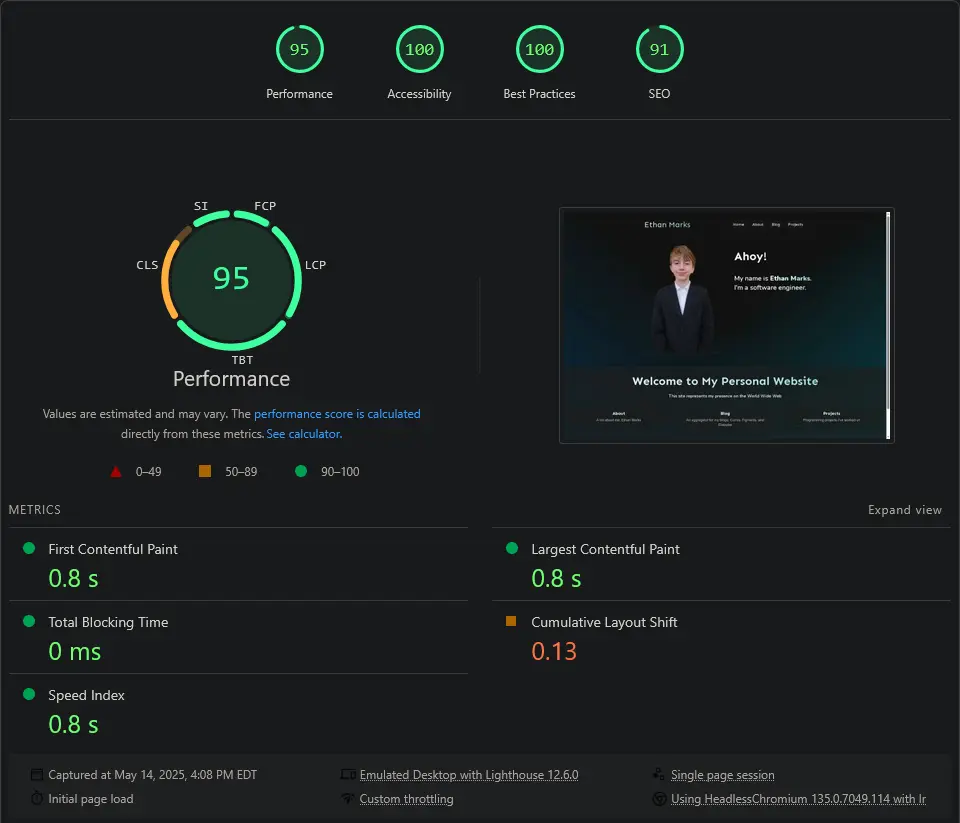
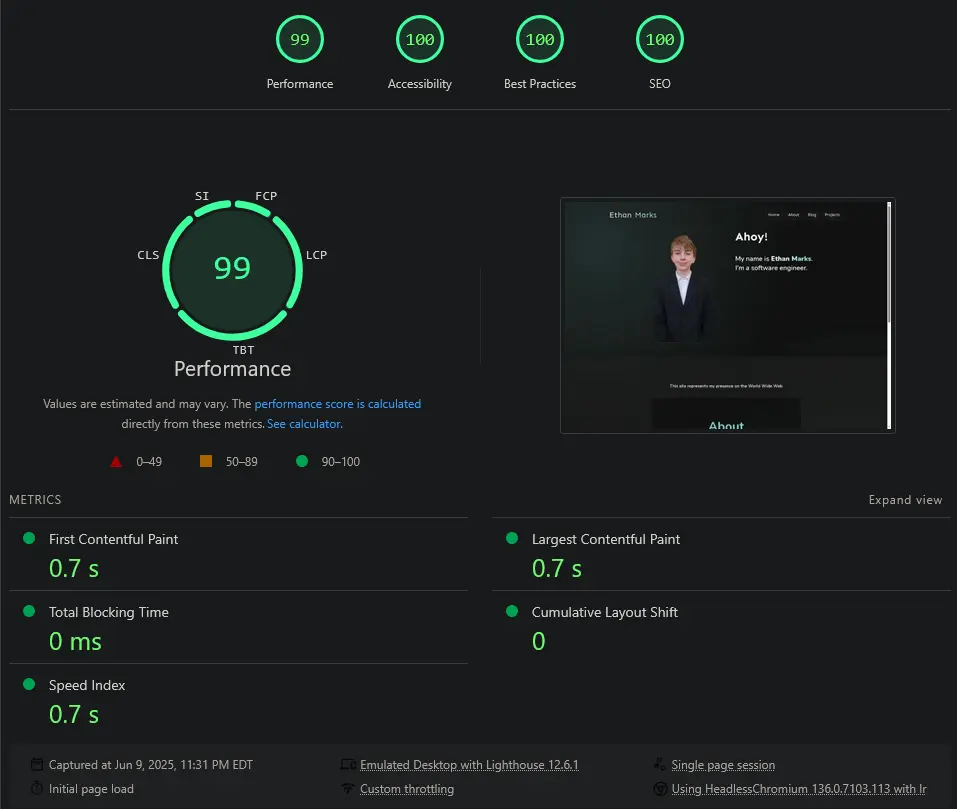
update personal website project

diff --git a/projects/personalwebsite/index.html b/projects/personalwebsite/index.html
@@ -63,27 +63,19 @@
 <li><strong>Body Font</strong>: I perused the <em>entire</em> <a href="https://fonts.google.com/">Google Fonts</a> catalogue to find a sleek <a href="https://fonts.google.com/knowledge/glossary/grotesque_neo_grotesque">neo-grotesque</a> font that supported <a href="https://en.wikipedia.org/wiki/Latin_script">Latin</a> and <a href="https://en.wikipedia.org/wiki/Cyrillic_script">Cyrillic</a>. I finally settled on <a href="https://fonts.google.com/specimen/Nunito">Nunito</a>. (Заслужаваше си, защото вече мога да имам български текст!)</li>
 <li><strong>Header Font</strong>: I chose <a href="https://fonts.google.com/specimen/Sen">Sen</a> for the headers because it looks stylish, clean, and I like the look of the lowercase t.</li>
 </ul>
-<h3>Animations</h3>
+<h3>Special Effects</h3>
 <ul>
-<li><strong>Page Load</strong>: Every time a page is loaded, the content smoothly fades in from transparency. This is accomplished giving, <code>&lt;body&gt;</code> the following animation: <code>animation: fadeIn 0.3s ease-in forwards</code>.</li>
-<li><strong>Home Page</strong>: I made heavy use of animations on my <a href="https://colourlessspearmint.github.io/">Home page</a>. The intro image, header, and subheader all slide in from different directions. Each word in the title text clicks in place with a staggered falling effect. The navigation cards gently fade and rise. I'm very happy with how it turned out.</li>
-</ul>
-<h3>Effects</h3>
-<ul>
-<li><strong>Blur</strong>: I love <a href="https://css.glass/">glassmorphic</a> blur effects, but due to performance concerns, I've only used it in the header and footer. If some mathematician figures out how to efficiently take a gaussian blur over a large sample space, I want to be the first to know so I can add a subtle blur to the <code>&lt;article&gt;</code> styles without tanking performance.</li>
-<li><strong>Shadows</strong>: Some Interactive elements (e.g. buttons) have subtle drop shadows.</li>
-<li><strong>Borders</strong>: Many elements (buttons, images, articles) have this border <code>border: 1px solid rgba(255, 255, 255, 0.1)</code>; it's 1 pixel thick, 10% opaque, and pure white.</li>
-<li><strong>Rounded Corners</strong>: Many elements have slightly rounded corners. The radius is defined with <code>border-radius: clamp(8px, 3vw, 12px)</code>.</li>
+<li><strong>Blur</strong>: I love <a href="https://css.glass/">glassmorphic</a> blur effects, but due to performance concerns, I've only used it in the header and footer. If some mathematician figures out how to cheaply perform a <a href="https://en.wikipedia.org/wiki/Gaussian_blur">gaussian blur</a> over a large sample space, I want to be the first to know so I can add a subtle blur to the <code>&lt;article&gt;</code> styles without tanking performance.</li>
+<li><strong>Tilt</strong>: If you hover over the cards on my home page, they'll respond to the mouse by tilting in 3D. I used <a href="https://micku7zu.github.io/vanilla-tilt.js/">vanilla-tilt.js</a> for this </li>
 </ul>
 <h2>Lighthouse</h2>
-<p>As of <a href="https://pagespeed.web.dev/analysis/https-colourlessspearmint-github-io/x6c865vinn?form_factor=desktop">May 14, 2025</a>, the site earns an average <a href="https://developer.chrome.com/docs/lighthouse">Lighthouse</a> score of 96.4.</p>
-<img alt="A Lighthouse analytic page showing 95 performance, 100 accessibility, 100 best practices, 91 SEO" src="../../images/lighthouse.webp" />
-<p>The missing points in performance are due to the animations on the home screen that cause <a href="https://web.dev/articles/cls">Cumulative Layout Shift</a>. I could fix it by removing the animations, but I'm hesitant to sacrifice their aesthetic value for a small nominal performance gain.</p>
-<p>The missing points in SEO are because I don't have <code>&lt;meta&gt;</code> description tags on every page. I'm actively working on fixing this.</p>
+<p>As of <a href="https://pagespeed.web.dev/analysis/https-colourlessspearmint-github-io/uxk33xj1o8?form_factor=desktop">June 9, 2025</a>, the site earns an average <a href="https://developer.chrome.com/docs/lighthouse">Lighthouse</a> score of 99.75.</p>
+<img alt="A Lighthouse analytic page showing 99 performance, 100 accessibility, 100 best practices, 100 SEO" src="../../images/lighthouse.webp" />
+<p>It's very close to a perfect score, but I lost one point in performance because of the 520 milliseconds (half a second) it takes to download the font.</p>
 <h2>Privacy</h2>
 <p>This site does not use cookies, trackers, analytics, or any external telemetry tools. This is partially because I care about your privacy, but mostly because I don't care about your personal information and harvesting it sounds complicated. Your data remains yours because I don't want it and can't figure out how to get it.</p>
 <h2>Accessibility</h2>
-<p>This site is designed to be accessible to as many users as possible. Before each <a href="https://git-scm.com/docs/git-push">git push</a>, I test every single page in Firefox's <a href="https://firefox-source-docs.mozilla.org/devtools-user/responsive_design_mode/">Responsive Design Mode</a> to ensure that the site remains functional on a variety of devices. I've done my best to follow best practices regarding meta tags, semantic markup, keyboard navigation, and alt text.</p>
+<p>This site is designed to be accessible to as many users as possible. I've done my best to follow best practices regarding meta tags, semantic markup, keyboard navigation, and alt text. Also, before each <a href="https://git-scm.com/docs/git-push">git push</a> I test every single page in Firefox's <a href="https://firefox-source-docs.mozilla.org/devtools-user/responsive_design_mode/">Responsive Design Mode</a> to ensure that the site remains functional on different devices and screens.</p>
 <h2>Conclusion</h2>
 <p>My personal website is one of my favorite projects I've ever made. It's aesthetically pleasing, serves a purpose, was fun to make, and forced me to learn new programming concepts.</p>
 <p>I'm proud of my little corner on the web, and I hope you enjoy it as much as I do. Thanks for reading.</p>

diff --git a/projects_src/personalwebsite.md b/projects_src/personalwebsite.md
@@ -63,27 +63,18 @@ I had a moderately specific vision for what I wanted my website to look like, an
 - **Body Font**: I perused the *entire* [Google Fonts](https://fonts.google.com/) catalogue to find a sleek [neo-grotesque](https://fonts.google.com/knowledge/glossary/grotesque_neo_grotesque) font that supported [Latin](https://en.wikipedia.org/wiki/Latin_script) and [Cyrillic](https://en.wikipedia.org/wiki/Cyrillic_script). I finally settled on [Nunito](https://fonts.google.com/specimen/Nunito). (Заслужаваше си, защото вече мога да имам български текст!)
 - **Header Font**: I chose [Sen](https://fonts.google.com/specimen/Sen) for the headers because it looks stylish, clean, and I like the look of the lowercase t.
 
-### Animations
+### Special Effects
 
-- **Page Load**: Every time a page is loaded, the content smoothly fades in from transparency. This is accomplished giving, `<body>` the following animation: `animation: fadeIn 0.3s ease-in forwards`.
-- **Home Page**: I made heavy use of animations on my [Home page](https://colourlessspearmint.github.io/). The intro image, header, and subheader all slide in from different directions. Each word in the title text clicks in place with a staggered falling effect. The navigation cards gently fade and rise. I'm very happy with how it turned out.
-
-### Effects
-
-- **Blur**: I love [glassmorphic](https://css.glass/) blur effects, but due to performance concerns, I've only used it in the header and footer. If some mathematician figures out how to efficiently take a gaussian blur over a large sample space, I want to be the first to know so I can add a subtle blur to the `<article>` styles without tanking performance.
-- **Shadows**: Some Interactive elements (e.g. buttons) have subtle drop shadows.
-- **Borders**: Many elements (buttons, images, articles) have this border `border: 1px solid rgba(255, 255, 255, 0.1)`; it's 1 pixel thick, 10% opaque, and pure white.
-- **Rounded Corners**: Many elements have slightly rounded corners. The radius is defined with `border-radius: clamp(8px, 3vw, 12px)`.
+- **Blur**: I love [glassmorphic](https://css.glass/) blur effects, but due to performance concerns, I've only used it in the header and footer. If some mathematician figures out how to cheaply perform a [gaussian blur](https://en.wikipedia.org/wiki/Gaussian_blur) over a large sample space, I want to be the first to know so I can add a subtle blur to the `<article>` styles without tanking performance.
+- **Tilt**: If you hover over the cards on my home page, they'll respond to the mouse by tilting in 3D. I used [vanilla-tilt.js](https://micku7zu.github.io/vanilla-tilt.js/) for this 
 
 ## Lighthouse
 
-As of [May 14, 2025](https://pagespeed.web.dev/analysis/https-colourlessspearmint-github-io/x6c865vinn?form_factor=desktop), the site earns an average [Lighthouse](https://developer.chrome.com/docs/lighthouse) score of 96.4.
+As of [June 9, 2025](https://pagespeed.web.dev/analysis/https-colourlessspearmint-github-io/uxk33xj1o8?form_factor=desktop), the site earns an average [Lighthouse](https://developer.chrome.com/docs/lighthouse) score of 99.75.
 
-![A Lighthouse analytic page showing 95 performance, 100 accessibility, 100 best practices, 91 SEO](../../images/lighthouse.webp)
+![A Lighthouse analytic page showing 99 performance, 100 accessibility, 100 best practices, 100 SEO](../../images/lighthouse.webp)
 
-The missing points in performance are due to the animations on the home screen that cause [Cumulative Layout Shift](https://web.dev/articles/cls). I could fix it by removing the animations, but I'm hesitant to sacrifice their aesthetic value for a small nominal performance gain.
-
-The missing points in SEO are because I don't have `<meta>` description tags on every page. I'm actively working on fixing this.
+It's very close to a perfect score, but I lost one point in performance because of the 520 milliseconds (half a second) it takes to download the font.
 
 ## Privacy
 
@@ -91,7 +82,7 @@ This site does not use cookies, trackers, analytics, or any external telemetry t
 
 ## Accessibility
 
-This site is designed to be accessible to as many users as possible. Before each [git push](https://git-scm.com/docs/git-push), I test every single page in Firefox's [Responsive Design Mode](https://firefox-source-docs.mozilla.org/devtools-user/responsive_design_mode/) to ensure that the site remains functional on a variety of devices. I've done my best to follow best practices regarding meta tags, semantic markup, keyboard navigation, and alt text.
+This site is designed to be accessible to as many users as possible. I've done my best to follow best practices regarding meta tags, semantic markup, keyboard navigation, and alt text. Also, before each [git push](https://git-scm.com/docs/git-push) I test every single page in Firefox's [Responsive Design Mode](https://firefox-source-docs.mozilla.org/devtools-user/responsive_design_mode/) to ensure that the site remains functional on different devices and screens.
 
 ## Conclusion
 
